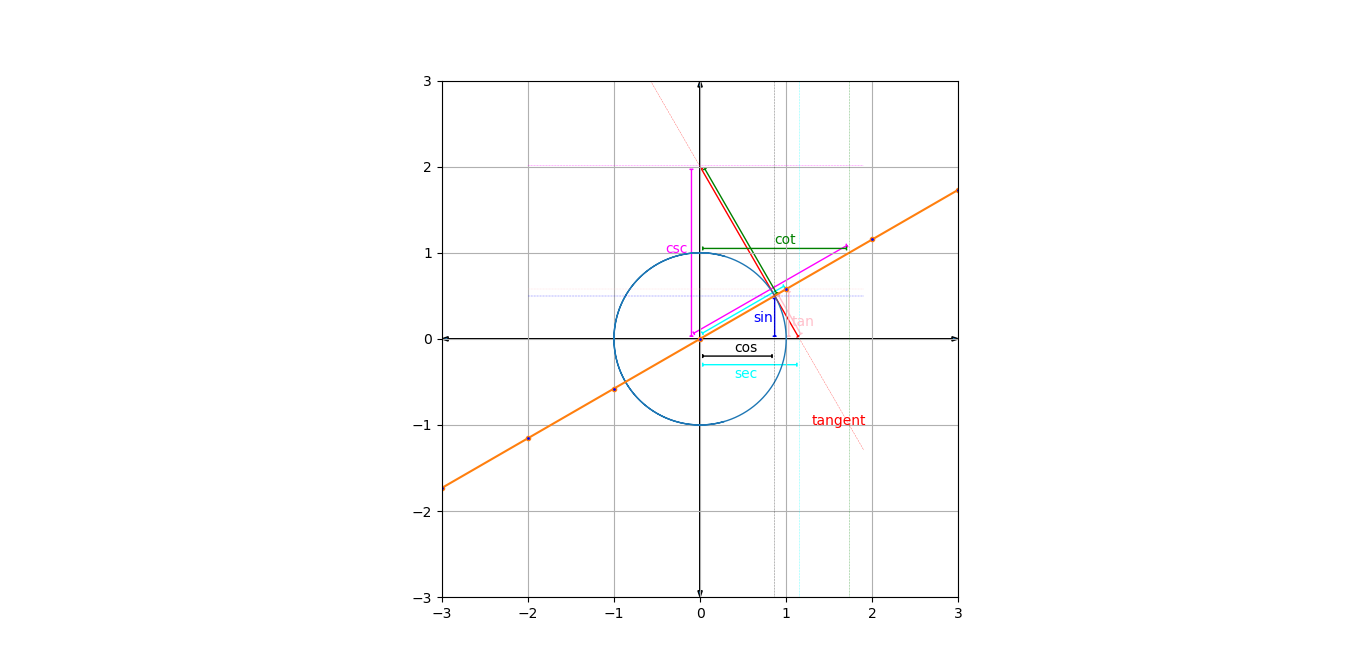
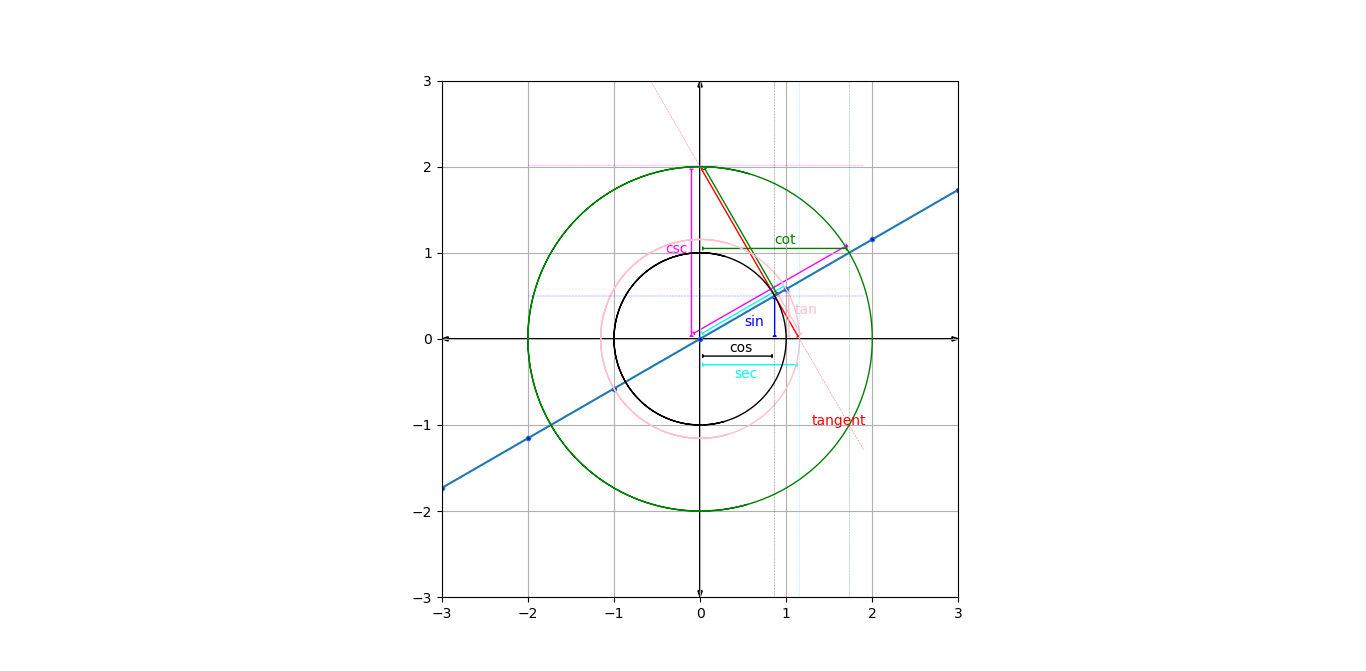
Add files via upload
Added 'secant/tan' circle and 'cosecant/cot' circle.

diff --git a/trig-matplot.py b/trig-matplot.py
@@ -3,30 +3,26 @@
 # Adarsh Daheriya 2018-05-12
 #
 
-import numpy as np
-import matplotlib.pyplot as plt
+import numpy              as np
+import matplotlib.pyplot  as plt
 import matplotlib.patches as patches
 
-fig = plt.figure("Trigonometric Functions")
+fig = plt.figure ("Trigonometric Functions")
 
-ax = fig.add_subplot(111)
+ax = fig.add_subplot (111)
 
 # lock the aspect
-ax.set_aspect(1)
+ax.set_aspect (1)
 
 # visible axes segment
 xy_min = -3
 xy_max = 3
-ax.set_xlim(xy_min, xy_max)
-ax.set_ylim(xy_min, xy_max)
-
-#unit circle
-t = np.arange(-5.0, 5.0, 0.01)
-plt.plot(np.cos(t), np.sin(t), linewidth=1)
+ax.set_xlim (xy_min, xy_max)
+ax.set_ylim (xy_min, xy_max)
 
 # axes
-left,right = ax.get_xlim()
-low,high = ax.get_ylim()
+left, right = ax.get_xlim()
+low, high   = ax.get_ylim()
 plt.arrow( 0, 0, right, 0,    length_includes_head = True, head_width = 0.05 )
 plt.arrow( 0, 0, left,  0,    length_includes_head = True, head_width = 0.05 )
 plt.arrow( 0, 0, 0,     high, length_includes_head = True, head_width = 0.05 ) 
@@ -36,9 +32,9 @@ plt.arrow( 0, 0, 0,     low,  length_includes_head = True, head_width = 0.05 )
 plt.grid()
 
 # draw line at given angle
-x1 = 0
-y1 = 0
-angle = 30 # vary this to change angle
+# vary this to change angle
+angle = 30
+
 rad = np.radians(angle)
 
 tan = np.tan(rad)
@@ -47,13 +43,31 @@ cos = np.cos(rad)
 csc = 1/sin
 sec = 1/cos
 cot = 1/tan
-x = np.array(range(-3,4))
-y = tan*(x-x1) + y1
-plt.plot(x,y, marker = ".", markevery = 1, markerfacecolor = "b")
+
+def draw_angle_line(dx, dy, rad):
+    x = np.array (range (-3, 4))
+    y = tan * (x - dx) + dy
+    plt.plot (x, y, marker = ".", markevery = 1, markerfacecolor = "b")
+
+draw_angle_line(0, 0, rad)
+
+# plot circle
+t = np.arange (-5.0, 5.0, 0.01)
+def plot_circle (x, y, c):
+    plt.plot (x, y, color = c, linewidth=1)
+
+# unit circle
+plot_circle (np.cos(t), np.sin(t), "black")
+
+# 'tan' circle
+plot_circle (np.sqrt (1 + tan**2) * np.cos(t), np.sqrt (1 + tan**2) * np.sin(t), "pink")
+
+# 'cot' circle
+plot_circle (np.sqrt (cot**2 + 1) * np.cos(t), np.sqrt (cot**2 + 1) * np.sin(t), "green")
 
 # draw extended line, passing through [x1,y1] and [x2,y2]
 def plot_segment(x1, y1, x2, y2, c):
-    line_eqn = lambda x : ((y2-y1)/(x2-x1)) * (x - x1) + y1        
+    line_eqn = lambda x : ( (y2 - y1) / (x2 - x1) ) * (x - x1) + y1        
     xrange = np.arange(-2, 2, 0.1)
     plt.plot(xrange, [ line_eqn(x) for x in xrange], color=c, linestyle='-.', linewidth=0.2)
 
@@ -68,12 +82,12 @@ plot_segment(sec, 0, 0,       csc,                    "red")     # tangent line
 #sin
 Sin = patches.FancyArrowPatch([cos, 0], [cos, sin], arrowstyle="]-[", color = "blue")
 ax.add_patch(Sin)
-ax.annotate('sin', xy=(1, 1), xytext=(cos-0.25, sin-0.3), color = 'blue' )
+ax.annotate('sin', xy=(1, 1), xytext=(cos-0.35, (sin/2)-0.1), color = 'blue' )
 
 #cos
 Cos = patches.FancyArrowPatch([0, -0.2], [cos, -0.2], arrowstyle="]-[", color = "black")
 ax.add_patch(Cos)
-ax.annotate('cos', xy=(1, 1), xytext=(0.4, -0.15))
+ax.annotate('cos', xy=(1, 1), xytext=((cos/2)-0.1, -0.15))
 
 #tangent
 Tangent = patches.FancyArrowPatch([sec, 0], [0, csc], arrowstyle="|-|", color = "red")
@@ -85,7 +99,7 @@ Csc = patches.FancyArrowPatch([-0.1, 0], [-0.1, csc], arrowstyle="]-[", color = 
 ax.add_patch(Csc)
 Csc = patches.FancyArrowPatch([-0.1, 0.05], [cot, 1.1], arrowstyle="]-[", color = "magenta")
 ax.add_patch(Csc)
-ax.annotate('csc', xy=(1, 1), xytext=(-0.4, 1), color = 'magenta')
+ax.annotate('csc', xy=(1, 1), xytext=(-0.4, csc/2), color = 'magenta')
 
 #sec
 Sec = patches.FancyArrowPatch([0, -0.3], [sec, -0.3], arrowstyle="]-[", color = "cyan")
@@ -97,7 +111,7 @@ ax.annotate('sec', xy=(1, 1), xytext=(0.4, -0.45), color = 'cyan')
 #tan
 Tan = patches.FancyArrowPatch([1.03, 0], [1.03, tan], arrowstyle="]-[", color = "pink")
 ax.add_patch(Tan)
-ax.annotate('tan', xy=(1, 1), xytext=(cos+0.2, sin-0.35), color = 'pink')
+ax.annotate('tan', xy=(1, 1), xytext=(1.1, tan/2), color = 'pink')
 Tan = patches.FancyArrowPatch([cos+0.03, sin+0.03], [sec+0.03, 0.03], arrowstyle="]-[", color = "pink")
 ax.add_patch(Tan)
 
